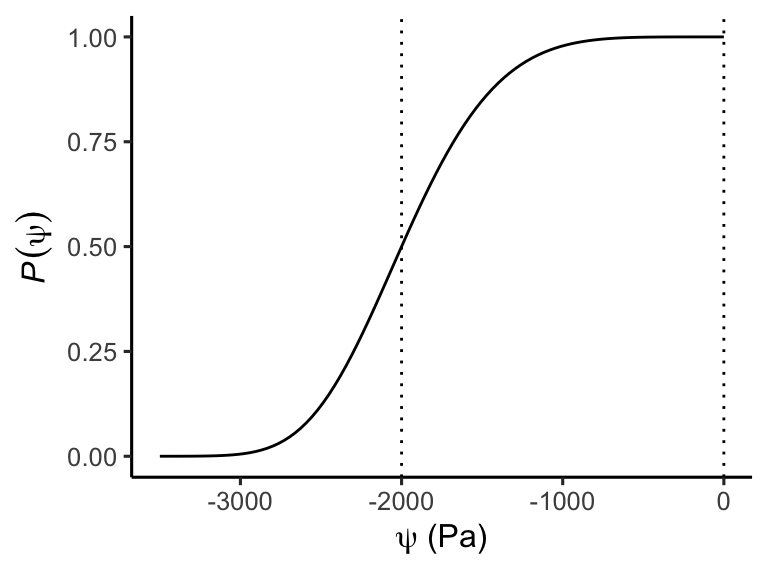
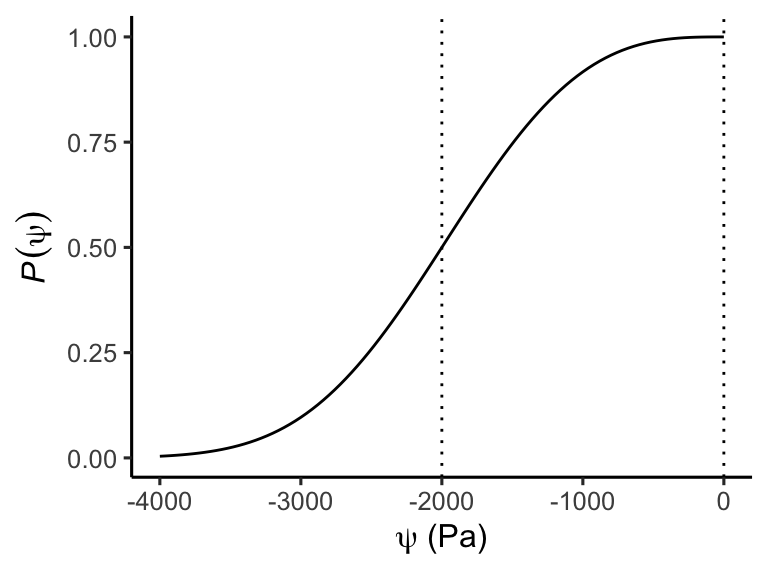
Built site for gh-pages

diff --git a/ecohydrology.html b/ecohydrology.html
@@ -866,13 +866,14 @@ Exercise
 <section id="plant-hydraulics" class="level2" data-number="8.4">
 <h2 data-number="8.4" class="anchored" data-anchor-id="plant-hydraulics"><span class="header-section-number">8.4</span> Plant hydraulics</h2>
 <p>Water is transported from the soil, across the soil-root interface, and then inside the plant from the fine roots up and along inside the xylem (the water transport vessels) to the leaves. Water evaporates and diffuses through the stomates (<a href="gpp.html#sec-transpiration"><span>Section&nbsp;4.4</span></a>). This water transport along the <em>soil-plant-atmosphere</em> (SPA) continuum is a passive process. That is, the plant does not invest energy directly in the process of transporting the water. The water evaporation through leaves is rather an unavoidable “burden” that is traded off against CO<sub>2</sub> uptake for photosynthesis (<a href="gpp.html#sec-stomatalregulation"><span>Section&nbsp;4.4.3</span></a>).</p>
-<p>Have you thought about how water is transported up tall trees? It’s a fascinating aspect of how biology has evolved ways to deal with physics. (You can too.)</p>
+<p>Have you thought about how water is transported up tall trees? It’s a fascinating aspect of how biology has evolved ways to deal with physics.</p>
 <div class="quarto-video ratio ratio-16x9"><iframe data-external="1" src="https://www.youtube.com/embed/BickMFHAZR0" title="" frameborder="0" allow="accelerometer; autoplay; clipboard-write; encrypted-media; gyroscope; picture-in-picture" allowfullscreen=""></iframe></div>
-<p>The driving force of water transport is the negative pressure that the vapor pressure deficit of the surrounding air creates. This force acts against a resistances and the gravitational force. To move the water, the water at the level of the leaves is under a strong negative pressure. The higher the resistance along the soil-plant-atmosphere continuum, the more negative the pressure to sustain a given water flux (transpiration). This negative water pressure at the level of the leaves is the <em>leaf water potential</em> (<span class="math inline">\(\psi_l\)</span>). It’s in the same units as the soil matric potential (<span class="math inline">\(\psi_s\)</span>, <a href="#eq-psisoil">Equation&nbsp;<span>8.4</span></a>) and it is related to the soil water potential via a the transpiration stream <span class="math inline">\(T\)</span> and an effective whole-plant hydraulic conductance <span class="math inline">\(G_p\)</span> that considers resistance elements in series - from the soil to the leaf. In simplified terms, this can be written as. <span id="eq-hydraulic_simple"><span class="math display">\[
-T = -G_p (\psi_l - \psi_s)
-\tag{8.6}\]</span></span> This equation expresses the “supply” of water from the soil. From <a href="gpp.html#eq-transpiration">Equation&nbsp;<span>4.11</span></a>, we know how the “demand” for water is determined by the vapor pressure deficit <span class="math inline">\(D\)</span> and the stomatal conductance <span class="math inline">\(g_s\)</span>. The <span class="math inline">\(T\)</span> in <a href="#eq-hydraulic_simple">Equation&nbsp;<span>8.6</span></a> thus has to be equal to the <span class="math inline">\(T\)</span> from <a href="gpp.html#eq-transpiration">Equation&nbsp;<span>4.11</span></a> (where it was called <span class="math inline">\(E\)</span>): <span class="math display">\[
+<p>The driving force of water transport is the negative pressure that the vapor pressure deficit of the surrounding air creates. This force acts against a resistances and the gravitational force. To move the water up the plant, the water at the level of the leaves is under a strong negative pressure. The taller the plant and the higher the resistance along the soil-plant-atmosphere continuum, the more negative the pressure at the leaf-level to sustain a given water flux (transpiration). This negative water pressure at the level of the leaves is the <em>leaf water potential</em> (<span class="math inline">\(\psi_l\)</span>). It’s in the same units as the soil matric potential (<span class="math inline">\(\psi_s\)</span>, <a href="#eq-psisoil">Equation&nbsp;<span>8.4</span></a>) and it is related to the soil water potential via a the transpiration stream <span class="math inline">\(T\)</span> and an effective whole-plant hydraulic conductance <span class="math inline">\(G_p\)</span> that considers resistance elements in series - from the soil to the leaf. Remember that a conductance is the inverse of a resistance. In simplified terms, this can be written as. <span id="eq-hydraulic_simple"><span class="math display">\[
+T = -G_p (\psi_l - \psi_s + \rho g h)
+\tag{8.6}\]</span></span> <span class="math inline">\(\rho\)</span> is the density of water (kg m<sup>-3</sup>), <span class="math inline">\(g\)</span> is the gravitational constant (9.81 m s<sup>-2</sup>), and <span class="math inline">\(h\)</span> is the height of the tree (m), measured from the average depth of the roots to the average height of the leaves. With the units of <span class="math inline">\(\psi_l\)</span> and <span class="math inline">\(\psi_s\)</span> in Pa and <span class="math inline">\(T\)</span> in units of (kg m<sup>-2</sup> s<sup>-1</sup>), <span class="math inline">\(G_p\)</span> is in units of (s m<sup>-1</sup>). <a href="#eq-hydraulic_simple">Equation&nbsp;<span>8.6</span></a> expresses the “supply” of water from the soil. From <a href="gpp.html#eq-transpiration">Equation&nbsp;<span>4.11</span></a>, we know how the “demand” for water is determined by the vapor pressure deficit <span class="math inline">\(D\)</span> and the stomatal conductance <span class="math inline">\(g_s\)</span>. The <span class="math inline">\(T\)</span> in <a href="#eq-hydraulic_simple">Equation&nbsp;<span>8.6</span></a> thus has to be equal to the <span class="math inline">\(T\)</span> from <a href="gpp.html#eq-transpiration">Equation&nbsp;<span>4.11</span></a> (where it was called <span class="math inline">\(E\)</span>): <span id="eq-transpiration-demand"><span class="math display">\[
 T =  1.6 \; g_s \; D
-\]</span> These equations illustrates three important points. First, a positive (upward) transpiration stream <span class="math inline">\(T\)</span> that satisfies the demand from the atmosphere can only be maintained if the leaf water potential is more negative than the soil water potential. Second, as the soil water potential becomes more negative, the leaf water potential also has to become more negative to transport the amount of water which is determined by <span class="math inline">\(D\)</span> and <span class="math inline">\(g_s\)</span>. By setting the two equations for <span class="math inline">\(T\)</span> equal and solving for the leaf water potential <span class="math inline">\(\psi_l\)</span> also illustrates how soil moisture (<span class="math inline">\(\psi_s\)</span>) and VPD (<span class="math inline">\(D\)</span>) have an interactive effect on <span class="math inline">\(\psi_l\)</span>.</p>
+\tag{8.7}\]</span></span> These equations illustrate some important points. First, a positive (upward) transpiration stream <span class="math inline">\(T\)</span> that satisfies the demand from the atmosphere (<a href="#eq-transpiration-demand">Equation&nbsp;<span>8.7</span></a>) can only be maintained if the leaf water potential is more negative than the soil water potential. Second, as the soil water potential becomes more negative, the leaf water potential also has to become more negative to transport the amount of water that is “demanded” by the atmosphere and determined by <span class="math inline">\(D\)</span> and <span class="math inline">\(g_s\)</span>. Third, tall trees have to sustain more negative leaf water potentials than short for a given soil dryness and transpiration rate. By setting the two equations for <span class="math inline">\(T\)</span> equal and solving for the leaf water potential <span class="math inline">\(\psi_l\)</span> also illustrates how soil moisture (<span class="math inline">\(\psi_s\)</span>) and VPD (<span class="math inline">\(D\)</span>) have an interactive effect on <span class="math inline">\(\psi_l\)</span>.</p>
+<p>Responses of plants to water stress are physiologically triggered through the sensing of leaf water potentials. In other words, <span class="math inline">\(\psi_l\)</span> is the central quantity that drives water stress responses of plants. Understanding how <span class="math inline">\(\psi_l\)</span> responds to environmental factors is thus key to understanding how water stress (stomatal closure, damaging drought stress) is a function of soil and air dryness, modified by plant hydraulic traits determining <span class="math inline">\(G_p\)</span>.</p>
 <div class="callout callout-style-default callout-note callout-titled">
 <div class="callout-header d-flex align-content-center">
 <div class="callout-icon-container">
@@ -883,11 +884,11 @@ Note
 </div>
 </div>
 <div class="callout-body-container callout-body">
-<p><a href="#eq-hydraulic_simple">Equation&nbsp;<span>8.6</span></a> is a simplification because the whole-plant hydraulic conductance <span class="math inline">\(G_p\)</span> is a function of the water potential which drops along the transport pathway from <span class="math inline">\(\psi_s\)</span> to <span class="math inline">\(\psi_l\)</span>. As a consequence, the interactive effect of VPD and soil moisture is very non-linear. To account for the conductance drop with negative water potential, a more realistic form of <a href="#eq-hydraulic_simple">Equation&nbsp;<span>8.6</span></a> can be written as <span class="math display">\[
-T = -G_p \int_{\psi_s}^{\psi_l} P(\psi) \; \text{d}\psi \;,
-\]</span> where <span class="math inline">\(P(\psi)\)</span> is a vulnerability function of the plant conductance. It declines towards more negative water potentials. A commonly assumed functional form is <span class="math display">\[
+<p><a href="#eq-hydraulic_simple">Equation&nbsp;<span>8.6</span></a> is a simplification because the whole-plant hydraulic conductance <span class="math inline">\(G_p\)</span> is a non-linear function of the water potential which drops along the transport pathway from <span class="math inline">\(\psi_s\)</span> to <span class="math inline">\(\psi_l\)</span>. As a consequence, the interactive effect of VPD and soil moisture is non-linear. To account for the conductance drop with negative water potential, a more realistic form of <a href="#eq-hydraulic_simple">Equation&nbsp;<span>8.6</span></a> can be written as <span id="eq-hydraulicsupply"><span class="math display">\[
+T = -G_{p,0} \int_{\psi_s}^{\psi_l - \rho g h} P(\psi) \; \text{d}\psi  \;,
+\tag{8.8}\]</span></span> where <span class="math inline">\(G_{p,0}\)</span> is a “base” conductance at zero water potential and <span class="math inline">\(P(\psi)\)</span> is a vulnerability function of the plant conductance. The latter declines towards more negative water potentials. A commonly used functional form is <span id="eq-vulnerabilitycurve"><span class="math display">\[
 P(\psi) = 0.5^{(\psi/P_{50})^b} \;,
-\]</span> where <span class="math inline">\(P_\text{50}\)</span> is the water potential at which <span class="math inline">\(P\)</span> has dropped to 0.5.</p>
+\tag{8.9}\]</span></span> where <span class="math inline">\(P_\text{50}\)</span> is the water potential at which <span class="math inline">\(P\)</span> has dropped to 0.5.</p>
 <div class="cell">
 <details>
 <summary>Code</summary>
@@ -898,8 +899,8 @@ P(\psi) = 0.5^{(\psi/P_{50})^b} \;,
 <span id="cb5-5"><a href="#cb5-5" aria-hidden="true" tabindex="-1"></a>}</span>
 <span id="cb5-6"><a href="#cb5-6" aria-hidden="true" tabindex="-1"></a></span>
 <span id="cb5-7"><a href="#cb5-7" aria-hidden="true" tabindex="-1"></a><span class="fu">ggplot</span>() <span class="sc">+</span></span>
-<span id="cb5-8"><a href="#cb5-8" aria-hidden="true" tabindex="-1"></a>  <span class="fu">geom_function</span>(<span class="at">fun =</span> <span class="cf">function</span>(x) <span class="fu">vulnerability_curve</span>(x, <span class="sc">-</span><span class="dv">2000</span>, <span class="dv">5</span>)) <span class="sc">+</span></span>
-<span id="cb5-9"><a href="#cb5-9" aria-hidden="true" tabindex="-1"></a>  <span class="fu">xlim</span>(<span class="sc">-</span><span class="dv">3500</span>, <span class="dv">0</span>) <span class="sc">+</span></span>
+<span id="cb5-8"><a href="#cb5-8" aria-hidden="true" tabindex="-1"></a>  <span class="fu">geom_function</span>(<span class="at">fun =</span> <span class="cf">function</span>(x) <span class="fu">vulnerability_curve</span>(x, <span class="sc">-</span><span class="dv">2000</span>, <span class="dv">3</span>)) <span class="sc">+</span></span>
+<span id="cb5-9"><a href="#cb5-9" aria-hidden="true" tabindex="-1"></a>  <span class="fu">xlim</span>(<span class="sc">-</span><span class="dv">4000</span>, <span class="dv">0</span>) <span class="sc">+</span></span>
 <span id="cb5-10"><a href="#cb5-10" aria-hidden="true" tabindex="-1"></a>  <span class="fu">geom_vline</span>(<span class="at">xintercept =</span> <span class="fu">c</span>(<span class="sc">-</span><span class="dv">2000</span>, <span class="dv">0</span>), <span class="at">linetype =</span> <span class="st">"dotted"</span>) <span class="sc">+</span></span>
 <span id="cb5-11"><a href="#cb5-11" aria-hidden="true" tabindex="-1"></a>  <span class="fu">labs</span>(<span class="at">x =</span> <span class="fu">expression</span>(<span class="fu">paste</span>(psi, <span class="st">" (Pa)"</span>)),</span>
 <span id="cb5-12"><a href="#cb5-12" aria-hidden="true" tabindex="-1"></a>       <span class="at">y =</span> <span class="fu">expression</span>(<span class="fu">paste</span>(<span class="fu">italic</span>(<span class="fu">P</span>(psi))))) <span class="sc">+</span> </span>
@@ -909,22 +910,78 @@ P(\psi) = 0.5^{(\psi/P_{50})^b} \;,
 <div id="fig-hydraulics" class="quarto-figure quarto-figure-center anchored">
 <figure class="figure">
 <p><img src="ecohydrology_files/figure-html/fig-hydraulics-1.png" class="img-fluid figure-img" width="384"></p>
-<figcaption class="figure-caption">Figure&nbsp;8.10: Example plant hydraulic vulnerability cuve. The water potential at which <em>P</em> has dropped to 0.5 is commonly referred to as <em>P<sub>50</sub></em> and is marked by the vertical dotted line at -2000 Pa (as an example). The abruptness of the drop in <em>P</em> is described by a separate parameter (not shown).</figcaption>
+<figcaption class="figure-caption">Figure&nbsp;8.10: Example plant hydraulic vulnerability cuve. The water potential at which <em>P</em> has dropped to 0.5 is commonly referred to as <em>P<sub>50</sub></em> and is marked by the vertical dotted line at -2000 Pa (as an example). The abruptness of the drop in <em>P</em> is described by a shape parameter (<em>b</em> in <a href="#eq-vulnerabilitycurve">Equation&nbsp;<span>8.9</span></a>).</figcaption>
+</figure>
+</div>
+</div>
+</div>
+<p><a href="#eq-hydraulicsupply">Equation&nbsp;<span>8.8</span></a> can be regarded as the <em>hydraulic supply function</em> for transpiration <span class="citation" data-cites="sperrylove15newphyt">(<a href="references.html#ref-sperrylove15newphyt" role="doc-biblioref">Sperry and Love 2015</a>)</span> and <a href="#eq-vulnerabilitycurve">Equation&nbsp;<span>8.9</span></a> is commonly referred to as the hydraulic <em>vulnerability curve</em> <span class="citation" data-cites="tyree89annrev">(<a href="references.html#ref-tyree89annrev" role="doc-biblioref">Tyree and Sperry 1989</a>)</span>. The non-linearity arising from the latter implies that transpiration initially increases with an increasingly negative leaf water potential, but reaches a maximum beyond which transpiration does not further increase despite increasingly negative leaf water potentials. Reaching this point is risky for plants as it bears the danger of potentially lethal hydraulic failure (see below). Stomatal regulation acts to limit leaf water potentials reaching this point, while maximally exploiting soil water that is available for plant uptake without a substantial flattening of the <span class="math inline">\(T(\psi_l)\)</span> curve. What exactly “substantial” means, depends on plant strategies that vary between species.</p>
+<div class="cell">
+<details>
+<summary>Code</summary>
+<div class="sourceCode cell-code" id="cb6"><pre class="sourceCode r code-with-copy"><code class="sourceCode r"><span id="cb6-1"><a href="#cb6-1" aria-hidden="true" tabindex="-1"></a><span class="fu">library</span>(dplyr)</span>
+<span id="cb6-2"><a href="#cb6-2" aria-hidden="true" tabindex="-1"></a></span>
+<span id="cb6-3"><a href="#cb6-3" aria-hidden="true" tabindex="-1"></a>hydraulic_supply <span class="ot">&lt;-</span> <span class="cf">function</span>(psi_leaf, psi_soil, g_plant, p50, b){</span>
+<span id="cb6-4"><a href="#cb6-4" aria-hidden="true" tabindex="-1"></a>  transpiration <span class="ot">&lt;-</span> <span class="sc">-</span>g_plant <span class="sc">*</span> </span>
+<span id="cb6-5"><a href="#cb6-5" aria-hidden="true" tabindex="-1"></a>    <span class="fu">integrate</span>(</span>
+<span id="cb6-6"><a href="#cb6-6" aria-hidden="true" tabindex="-1"></a>      <span class="at">f =</span> vulnerability_curve, </span>
+<span id="cb6-7"><a href="#cb6-7" aria-hidden="true" tabindex="-1"></a>      <span class="at">lower =</span> psi_soil,   </span>
+<span id="cb6-8"><a href="#cb6-8" aria-hidden="true" tabindex="-1"></a>      <span class="at">upper =</span> psi_leaf,</span>
+<span id="cb6-9"><a href="#cb6-9" aria-hidden="true" tabindex="-1"></a>      <span class="at">p50 =</span> p50,      <span class="co"># argument for f</span></span>
+<span id="cb6-10"><a href="#cb6-10" aria-hidden="true" tabindex="-1"></a>      <span class="at">b =</span> b           <span class="co"># argument for f</span></span>
+<span id="cb6-11"><a href="#cb6-11" aria-hidden="true" tabindex="-1"></a>      )<span class="sc">$</span>value</span>
+<span id="cb6-12"><a href="#cb6-12" aria-hidden="true" tabindex="-1"></a>  <span class="fu">return</span>(transpiration)</span>
+<span id="cb6-13"><a href="#cb6-13" aria-hidden="true" tabindex="-1"></a>}</span>
+<span id="cb6-14"><a href="#cb6-14" aria-hidden="true" tabindex="-1"></a></span>
+<span id="cb6-15"><a href="#cb6-15" aria-hidden="true" tabindex="-1"></a>tmp <span class="ot">&lt;-</span> <span class="fu">expand.grid</span>(</span>
+<span id="cb6-16"><a href="#cb6-16" aria-hidden="true" tabindex="-1"></a>  <span class="at">psi_leaf =</span> <span class="fu">seq</span>(<span class="sc">-</span><span class="dv">4000</span>, <span class="dv">0</span>, <span class="at">by =</span> <span class="dv">50</span>),</span>
+<span id="cb6-17"><a href="#cb6-17" aria-hidden="true" tabindex="-1"></a>  <span class="at">psi_soil =</span> <span class="fu">seq</span>(<span class="sc">-</span><span class="dv">2000</span>, <span class="dv">0</span>, <span class="at">by =</span> <span class="dv">100</span>)</span>
+<span id="cb6-18"><a href="#cb6-18" aria-hidden="true" tabindex="-1"></a>) <span class="sc">|&gt;</span> </span>
+<span id="cb6-19"><a href="#cb6-19" aria-hidden="true" tabindex="-1"></a>  <span class="fu">as_tibble</span>() <span class="sc">|&gt;</span> </span>
+<span id="cb6-20"><a href="#cb6-20" aria-hidden="true" tabindex="-1"></a>  <span class="fu">rowwise</span>() <span class="sc">|&gt;</span> </span>
+<span id="cb6-21"><a href="#cb6-21" aria-hidden="true" tabindex="-1"></a>  <span class="fu">mutate</span>(</span>
+<span id="cb6-22"><a href="#cb6-22" aria-hidden="true" tabindex="-1"></a>    <span class="at">transp =</span> <span class="fu">hydraulic_supply</span>(</span>
+<span id="cb6-23"><a href="#cb6-23" aria-hidden="true" tabindex="-1"></a>      <span class="at">psi_leaf =</span> psi_leaf, </span>
+<span id="cb6-24"><a href="#cb6-24" aria-hidden="true" tabindex="-1"></a>      <span class="at">psi_soil =</span> psi_soil, </span>
+<span id="cb6-25"><a href="#cb6-25" aria-hidden="true" tabindex="-1"></a>      <span class="at">g_plant =</span> <span class="fl">1e-6</span>, </span>
+<span id="cb6-26"><a href="#cb6-26" aria-hidden="true" tabindex="-1"></a>      <span class="at">p50 =</span> <span class="sc">-</span><span class="dv">2000</span>, </span>
+<span id="cb6-27"><a href="#cb6-27" aria-hidden="true" tabindex="-1"></a>      <span class="at">b =</span> <span class="dv">3</span></span>
+<span id="cb6-28"><a href="#cb6-28" aria-hidden="true" tabindex="-1"></a>      )</span>
+<span id="cb6-29"><a href="#cb6-29" aria-hidden="true" tabindex="-1"></a>  )</span>
+<span id="cb6-30"><a href="#cb6-30" aria-hidden="true" tabindex="-1"></a></span>
+<span id="cb6-31"><a href="#cb6-31" aria-hidden="true" tabindex="-1"></a>tmp <span class="sc">|&gt;</span> </span>
+<span id="cb6-32"><a href="#cb6-32" aria-hidden="true" tabindex="-1"></a>  <span class="fu">ggplot</span>(<span class="fu">aes</span>(<span class="at">x =</span> <span class="sc">-</span>psi_leaf, <span class="at">y =</span> transp, <span class="at">color =</span> psi_soil, <span class="at">group =</span> psi_soil)) <span class="sc">+</span></span>
+<span id="cb6-33"><a href="#cb6-33" aria-hidden="true" tabindex="-1"></a>  <span class="fu">geom_line</span>() <span class="sc">+</span></span>
+<span id="cb6-34"><a href="#cb6-34" aria-hidden="true" tabindex="-1"></a>  <span class="fu">scale_color_viridis_c</span>(</span>
+<span id="cb6-35"><a href="#cb6-35" aria-hidden="true" tabindex="-1"></a>    <span class="at">name =</span> <span class="fu">expression</span>(<span class="fu">paste</span>(psi[soil], <span class="st">" (Pa)"</span>)),</span>
+<span id="cb6-36"><a href="#cb6-36" aria-hidden="true" tabindex="-1"></a>    <span class="at">option =</span> <span class="st">"cividis"</span>, </span>
+<span id="cb6-37"><a href="#cb6-37" aria-hidden="true" tabindex="-1"></a>    <span class="at">direction =</span> <span class="sc">-</span><span class="dv">1</span></span>
+<span id="cb6-38"><a href="#cb6-38" aria-hidden="true" tabindex="-1"></a>  ) <span class="sc">+</span></span>
+<span id="cb6-39"><a href="#cb6-39" aria-hidden="true" tabindex="-1"></a>  <span class="fu">labs</span>(<span class="at">x =</span> <span class="fu">expression</span>(<span class="fu">paste</span>(<span class="sc">-</span>psi[leaf], <span class="st">" (Pa)"</span>)),</span>
+<span id="cb6-40"><a href="#cb6-40" aria-hidden="true" tabindex="-1"></a>       <span class="at">y =</span> <span class="fu">expression</span>(<span class="fu">paste</span>(<span class="fu">italic</span>(T), <span class="st">" (mm s"</span><span class="sc">^-</span><span class="dv">1</span>, <span class="st">")"</span>))) <span class="sc">+</span> </span>
+<span id="cb6-41"><a href="#cb6-41" aria-hidden="true" tabindex="-1"></a>  <span class="fu">ylim</span>(<span class="dv">0</span>, <span class="cn">NA</span>) <span class="sc">+</span></span>
+<span id="cb6-42"><a href="#cb6-42" aria-hidden="true" tabindex="-1"></a>  <span class="fu">theme_classic</span>()</span></code><button title="Copy to Clipboard" class="code-copy-button"><i class="bi"></i></button></pre></div>
+</details>
+<div class="cell-output-display">
+<div id="fig-hydraulic-supply" class="quarto-figure quarto-figure-center anchored">
+<figure class="figure">
+<p><img src="ecohydrology_files/figure-html/fig-hydraulic-supply-1.png" class="img-fluid figure-img" width="480"></p>
+<figcaption class="figure-caption">Figure&nbsp;8.11: Hydraulic supply function. Transpiration as a function of an increasingly negative leaf water potential for different soil water potential levels. Water potentials are negative values. The x-axis shows the negative of the negative leaf water potential values (thus positive values). The visualisation shows that the leaf water potential is at least as strongly negative as the soil water potential and transpiration only exceeds zero if the leaf water potential becomes even more negative than the soil water potential. It also shows the strong sensitivity of the maximum transpiration rate as a function of the soil water potential. ‘Soil water potential’ represents the average water potential across the entire rooting zone. Here, the gravitational effect on water potentials is ignored by setting the tree height (<em>h</em> in <a href="#eq-hydraulicsupply">Equation&nbsp;<span>8.8</span></a>) to zero and the whole-plant base conductance <em>G</em><sub>p,0</sub> is set to 10<sup>-6</sup> s m<sup>-1</sup>.</figcaption>
 </figure>
 </div>
 </div>
 </div>
 </div>
 </div>
-<p>However, sustaining very negative water potentials along the transport pathway can be dangerous for the plant. As described in the box above, the whole-plant conductance declines with increasingly negative negative water potentials. This is because the very negative water potentials can only be sustained if no air is in contact with the water inside the xylem. As pressures become very negative, air may seep in and create <em>embolisms</em>. If the conductance was to drop towards zero, transpiration would collapse and embolisms would be excessive - creating potentially irreversible damage and triggering branch and eventually tree mortality due to <em>hydraulic failure</em>.</p>
+<p>Sustaining very negative water potentials along the transport pathway can be dangerous for the plant. As described in the box above, the whole-plant conductance declines with increasingly negative negative water potentials. This is because the very negative water potentials can only be sustained if no air is in contact with the water inside the xylem. As pressures become very negative, air may seep in and create <em>embolisms</em>. If the conductance was to drop towards zero, transpiration would collapse and embolisms would be excessive - creating potentially irreversible damage and triggering branch and eventually tree mortality due to <em>hydraulic failure</em>.</p>
 <p>Plants can avoid such water stress and hydraulic failure through stomatal regulation (see also <a href="gpp.html#sec-stomatalregulation"><span>Section&nbsp;4.4.3</span></a>). To avoid embolisms, stomata close (stomatal conductance is reduced) when the soil water potential declines to increasingly negative values. As a consequence transpiration, and also CO<sub>2</sub> assimilation, are decline. Once soil moisture across the rooting zone is depleted and the soil water potential reach very negative values, vegetation activity (transpiration and assimilation) comes to a halt. However, this rarely happens since water loss cannot be fully avoided even if stomata are fully closed and plants have evolved adaptations and are adjusted through plasticity in various traits to avoid a complete depletion of moisture stores across the rooting zone and to limit water losses. Variations in rooting depth are an expression of this adaptation and acclimation. Leaf properties with thick, waxy leaves that prevent water loss, or a drought-deciduous strategy are other examples.</p>
-<p>Different plant species respond differently to water stress (variations in soil water potential) and are characterised with different hydraulic traits that determine the stomatal response to soil and leaf water potentials. Two examples are shown in <a href="#fig-drydownresponse">Figure&nbsp;<span>8.11</span></a></p>
+<p>Different plant species respond differently to water stress (variations in soil water potential) and are characterised with different hydraulic traits that determine the stomatal response to soil and leaf water potentials. Two examples are shown in <a href="#fig-drydownresponse">Figure&nbsp;<span>8.12</span></a></p>
 <div class="cell">
 <div class="cell-output-display">
 <div id="fig-drydownresponse" class="quarto-figure quarto-figure-center anchored">
 <figure class="figure">
 <p><img src="images/drydownresponse.png" class="img-fluid figure-img" width="851"></p>
-<figcaption class="figure-caption">Figure&nbsp;8.11: Response of (a) CO<sub>2</sub> assimilation and (b) stomatal conductance to a declining soil water potential for two contrasting species - the drought-adapted <em>Eucalyptus populnea</em> and <em>Eucalyptus pilularis</em>, which is adapted to more moist climates. The lines represent predictions of the model by <span class="citation" data-cites="joshi22natplants">Joshi et al. (<a href="references.html#ref-joshi22natplants" role="doc-biblioref">2022</a>)</span> where an optimal response of stomata in trading off CO<sub>2</sub> assimilation and the risks associated with negative leaf water potentials is assumed.</figcaption>
+<figcaption class="figure-caption">Figure&nbsp;8.12: Response of (a) CO<sub>2</sub> assimilation and (b) stomatal conductance to a declining soil water potential for two contrasting species - the drought-adapted <em>Eucalyptus populnea</em> and <em>Eucalyptus pilularis</em>, which is adapted to more moist climates. The lines represent predictions of the model by <span class="citation" data-cites="joshi22natplants">Joshi et al. (<a href="references.html#ref-joshi22natplants" role="doc-biblioref">2022</a>)</span> where an optimal response of stomata in trading off CO<sub>2</sub> assimilation and the risks associated with negative leaf water potentials is assumed.</figcaption>
 </figure>
 </div>
 </div>
@@ -942,7 +999,7 @@ Exercise
 </div>
 <div class="callout-body-container callout-body">
 <ul>
-<li>Consider a soil dry down as in <a href="#fig-drydownresponse">Figure&nbsp;<span>8.11</span></a>. Sketch qualitatively how the following variables change as a function of the soil water potential (while all other meteorological variables remain constant):
+<li>Consider a soil dry down as in <a href="#fig-drydownresponse">Figure&nbsp;<span>8.12</span></a>. Sketch qualitatively how the following variables change as a function of the soil water potential (while all other meteorological variables remain constant):
 <ul>
 <li>Soil water content</li>
 <li>Latent heat flux</li>
@@ -1011,11 +1068,17 @@ Joshi, Jaideep, Benjamin D. Stocker, Florian Hofhansl, Shuangxi Zhou, Ulf Dieckm
 <div id="ref-seneviratne10" class="csl-entry" role="listitem">
 Seneviratne, Sonia I., Thierry Corti, Edouard L. Davin, Martin Hirschi, Eric B. Jaeger, Irene Lehner, Boris Orlowsky, and Adriaan J. Teuling. 2010. <span>“Investigating Soil Moisture–Climate Interactions in a Changing Climate: <span>A</span> Review.”</span> <em>Earth-Science Reviews</em> 99 (3): 125–61. https://doi.org/<a href="https://doi.org/10.1016/j.earscirev.2010.02.004">https://doi.org/10.1016/j.earscirev.2010.02.004</a>.
 </div>
+<div id="ref-sperrylove15newphyt" class="csl-entry" role="listitem">
+Sperry, John S., and David M. Love. 2015. <span>“What Plant Hydraulics Can Tell Us about Responses to Climate-Change Droughts.”</span> <em>New Phytologist</em> 207 (1): 14–27. <a href="https://doi.org/10.1111/nph.13354">https://doi.org/10.1111/nph.13354</a>.
+</div>
 <div id="ref-stocker23natgeo" class="csl-entry" role="listitem">
 Stocker, Benjamin D., Shersingh Joseph Tumber-Dávila, Alexandra G. Konings, Martha C. Anderson, Christopher Hain, and Robert B. Jackson. 2023. <span>“Global Patterns of Water Storage in the Rooting Zones of Vegetation.”</span> <em>Nature Geoscience</em>, February, 1–7. <a href="https://doi.org/10.1038/s41561-023-01125-2">https://doi.org/10.1038/s41561-023-01125-2</a>.
 </div>
 <div id="ref-tumber22newphyt" class="csl-entry" role="listitem">
 Tumber-Dávila, Shersingh Joseph, H. Jochen Schenk, Enzai Du, and Robert B. Jackson. 2022. <span>“Plant Sizes and Shapes Above- and Belowground and Their Interactions with Climate.”</span> <em>New Phytologist</em> n/a (n/a). https://doi.org/<a href="https://doi.org/10.1111/nph.18031">https://doi.org/10.1111/nph.18031</a>.
+</div>
+<div id="ref-tyree89annrev" class="csl-entry" role="listitem">
+Tyree, M. T., and J. S. Sperry. 1989. <span>“Vulnerability of <span>Xylem</span> to <span>Cavitation</span> and <span>Embolism</span>.”</span> <em>Annual Review of Plant Biology</em> 40 (Volume 40, 1989): 19–36. <a href="https://doi.org/10.1146/annurev.pp.40.060189.000315">https://doi.org/10.1146/annurev.pp.40.060189.000315</a>.
 </div>
 <div id="ref-wei17grl" class="csl-entry" role="listitem">
 Wei, Zhongwang, Kei Yoshimura, Lixin Wang, Diego G. Miralles, Scott Jasechko, and Xuhui Lee. 2017. <span>“Revisiting the Contribution of Transpiration to Global Terrestrial Evapotranspiration.”</span> <em>Geophysical Research Letters</em> 44 (6): 2792–2801. <a href="https://doi.org/10.1002/2016GL072235">https://doi.org/10.1002/2016GL072235</a>.

diff --git a/references.html b/references.html
@@ -981,6 +981,11 @@ Plant Geography and Terrestrial Carbon Cycling in the <span>LPJ</span>
 Dynamic Global Vegetation Model.”</span> <em>Global Change Biology</em>
 9 (2): 161–85. <a href="https://doi.org/10.1046/j.1365-2486.2003.00569.x">https://doi.org/10.1046/j.1365-2486.2003.00569.x</a>.
 </div>
+<div id="ref-sperrylove15newphyt" class="csl-entry" role="listitem">
+Sperry, John S., and David M. Love. 2015. <span>“What Plant Hydraulics
+Can Tell Us about Responses to Climate-Change Droughts.”</span> <em>New
+Phytologist</em> 207 (1): 14–27. <a href="https://doi.org/10.1111/nph.13354">https://doi.org/10.1111/nph.13354</a>.
+</div>
 <div id="ref-stocker14gmd" class="csl-entry" role="listitem">
 Stocker, B. D., R. Spahni, and F. Joos. 2014.
 <span>“<span>DYPTOP</span>: A Cost-Efficient <span>TOPMODEL</span>
@@ -1035,6 +1040,12 @@ Tumber-Dávila, Shersingh Joseph, H. Jochen Schenk, Enzai Du, and Robert
 B. Jackson. 2022. <span>“Plant Sizes and Shapes Above- and Belowground
 and Their Interactions with Climate.”</span> <em>New Phytologist</em>
 n/a (n/a). https://doi.org/<a href="https://doi.org/10.1111/nph.18031">https://doi.org/10.1111/nph.18031</a>.
+</div>
+<div id="ref-tyree89annrev" class="csl-entry" role="listitem">
+Tyree, M. T., and J. S. Sperry. 1989. <span>“Vulnerability of
+<span>Xylem</span> to <span>Cavitation</span> and
+<span>Embolism</span>.”</span> <em>Annual Review of Plant Biology</em>
+40 (Volume 40, 1989): 19–36. <a href="https://doi.org/10.1146/annurev.pp.40.060189.000315">https://doi.org/10.1146/annurev.pp.40.060189.000315</a>.
 </div>
 <div id="ref-vettoretti22natgeo" class="csl-entry" role="listitem">
 Vettoretti, Guido, Peter Ditlevsen, Markus Jochum, and Sune Olander
